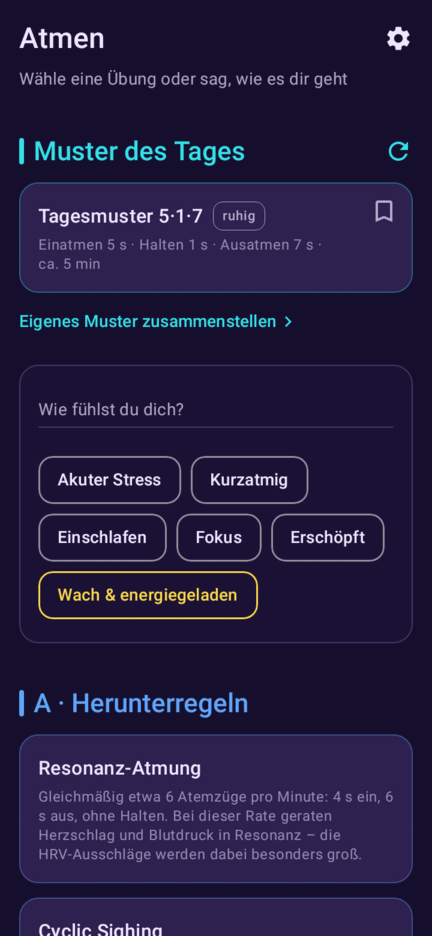
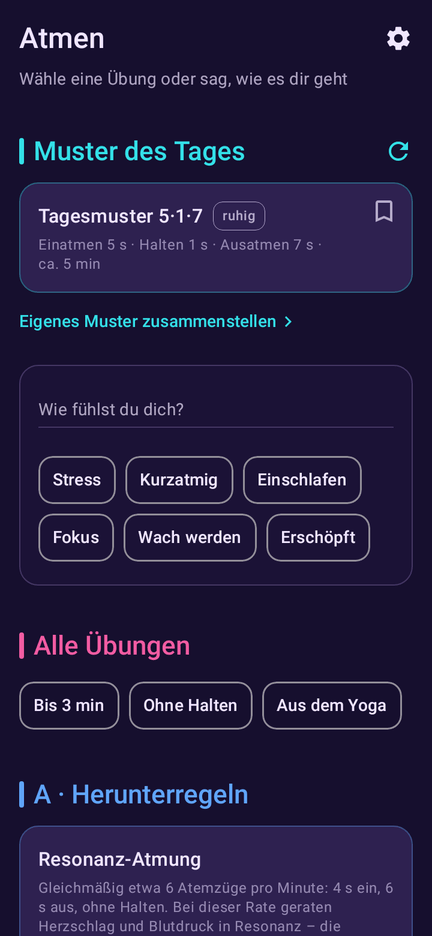
docs: Store-Texte mit Nutzen vorn, englische Kurzfassung, README mit Bezugsquellen
- de-DE: Titel „Atemkraft – Atemübungen“, Kurzbeschreibung mit Nutzen,
  Langtext gegliedert (Nutzen, Was Atemkraft anders macht, Was drin ist,
  Datenschutz, Lizenzen); Zahlen wie in den Daten (17 angeleitete Übungen
  in vier Bereichen, drei Programme, sechs Anlässe); Disclaimer wörtlich.
- en-US: Titel, Kurz- und Langtext; sagt zuerst, dass die App nur Deutsch ist.
- README: Bezugsquellen (Play und F-Droid folgen, GitHub, Obtainium), gleiche
  Signatur auf allen Wegen, „Bereiche“ statt „Gruppen“, 17 statt 20;
  README-Bilder nach Release-Checkliste Schritt 2 neu erzeugt.
- STORE.md: Stand der Texte und Grafiken, Befehl für die Store-Bilder.

Claude-Session: https://claude.ai/code/session_01H2VGhxbJTSRd9dYHL6wNME

Changed region(s): [[0.0301, 0.4647, 0.963, 1.0], [0.9329, 0.6197, 0.963, 0.6816]]

diff --git a/README.md b/README.md
@@ -1,33 +1,42 @@
 # Atemkraft
 
-Android-App für Atemübungen und stille Meditation. Ein mitatmender Kreis, Töne und Vibration führen dich durch 20 Atemtechniken; zu jeder steht, was die Studienlage hergibt, mit Quellen und Sicherheitshinweisen.
+Android-App für Atemübungen und stille Meditation. Ein mitatmender Kreis, Töne und Vibration führen dich durch 17 Atemübungen; dazu kommen drei Programme zum Nachlesen. Zu jeder Übung steht, was die Studienlage hergibt, mit Quellen und Sicherheitshinweisen.
 
-Ohne Konto, ohne Werbung, ohne Tracking; offline bis auf den optionalen Download einer Sprachstimme. Atemkraft ist eine Wellness-App und kein Medizinprodukt; sie ersetzt keinen Rat von Ärztin, Arzt oder anderem Fachpersonal.
+Ohne Konto, ohne Werbung, ohne Tracking; offline bis auf das optionale Laden einer Sprachstimme. Atemkraft ist eine Wellness-App und kein Medizinprodukt; sie ersetzt keinen Rat von Ärztin, Arzt oder anderem Fachpersonal.
 
 <p>
-  <img src="docs/screenshot-atmen.png" width="200" alt="Tab Atmen: Muster des Tages, Suche „Wie fühlst du dich?“ mit Anlässen als Chips und Liste der Atemübungen">
+  <img src="docs/screenshot-atmen.png" width="200" alt="Tab Atmen: Muster des Tages, Suche „Wie fühlst du dich?“ mit Anlässen als Chips, Filter und Liste der Atemübungen">
   <img src="docs/screenshot-sitzung.png" width="200" alt="Laufende Sitzung: Atemkreis mit „Einatmen“, Sekunden und Fortschrittsbogen">
 </p>
 
 ## Funktionen
 
-Beschrieben ist der Stand von `main`; die neueste APK unter Releases kann Einzelnes davon noch nicht haben.
+Beschrieben ist der Stand von `main`; die veröffentlichte Version kann Einzelnes davon noch nicht haben.
 
-- **Atmen:** 17 Übungen in vier Gruppen, je mit Anleitung, Studienlage, Sicherheitshinweisen und Quellen. Zeiten lassen sich pro Übung anpassen. Darüber „Wie fühlst du dich?“: Anlässe wie „Einschlafen“ zum Antippen und eine Suche nach deinem Befinden.
+- **Atmen:** 17 Übungen in vier Bereichen, je mit Anleitung, Studienlage, Sicherheitshinweisen und Quellen. Zeiten lassen sich pro Übung anpassen. Darüber „Wie fühlst du dich?“: Anlässe wie „Einschlafen“ zum Antippen und eine Suche nach deinem Befinden.
 - **Sitzung:** Der Kreis wächst beim Einatmen und schrumpft beim Ausatmen, dazu Töne und Vibration. Am Ende eine kurze Bilanz.
 - **Muster des Tages:** jeden Tag ein neues, ruhiges oder sanft aktivierendes Muster zum Ausprobieren und Speichern.
-- **Eigene Kreationen:** einen Atemzug frei aus Einatmen, Halten und Ausatmen zusammenstellen, mit Atemkurve, Vorlagen und Vorschau, gesammelt im Tab „Eigene“, zusammen mit den Übungen, die du mit „Tut mir gut“ markiert hast, und dem Verlauf deiner Sitzungen.
+- **Eigene Kreationen:** einen Atemzug frei aus Einatmen, Halten und Ausatmen zusammenstellen, mit Atemkurve, Startpunkten und Vorschau, gesammelt im Tab „Eigene“, zusammen mit den Übungen, die du mit „Tut mir gut“ markiert hast, und dem Verlauf deiner Sitzungen.
 - **Meditation:** Timer mit Zeitring, Gong und optional gesprochener Anleitung; läuft bei ausgeschaltetem Bildschirm weiter. Auf Wunsch geht eine Atemübung nahtlos in die stille Meditation über.
 - **Lernen:** Atemlehre (etwa die fünf vāyus), Pranayama mit Grundlagen und Techniken wie Ujjayi, jeweils mit Übung zum Ausprobieren, Begriffe erklärt und Programme wie Buteyko und Nasenatmung zum Nachlesen.
 - **Logbuch und Export:** abgeschlossene Sitzungen, gespeicherte Muster als Datei sichern.
 
 ## Installieren
 
-Atemkraft gibt es als APK auf GitHub, nicht im Play Store (Android 8.0 oder neuer).
+Atemkraft läuft ab Android 8.0. Bezugsquellen:
+
+- **Google Play** und **F-Droid:** folgen; die Links stehen hier, sobald die App dort erscheint.
+- **GitHub:** als APK unter [Releases](https://github.com/grenzenloseSchublade/atemkraft/releases/latest).
+
+Alle Wege liefern dieselbe App mit derselben Signatur. Du kannst deshalb die Quelle wechseln, ohne die App zu deinstallieren: Das Update aus der neuen Quelle installiert sich über die vorhandene App, Logbuch, Muster und Einstellungen bleiben. Das ist wichtig, weil es bewusst kein Cloud-Backup gibt; eine Deinstallation löscht diese Daten, außer du hast deine Muster vorher exportiert.
+
+Ohne Store:
 
 1. Auf dem Handy [Neueste Version](https://github.com/grenzenloseSchublade/atemkraft/releases/latest) öffnen und unter „Assets“ `atemkraft-vX.Y.Z.apk` laden.
 2. Die Datei öffnen und dem Browser einmal erlauben, Apps zu installieren.
 3. „Installieren“ tippen. Updates genauso darüber installieren; Logbuch, Muster und Einstellungen bleiben.
+
+Wer die GitHub-APKs automatisch aktuell halten will, trägt die Repo-Adresse in [Obtainium](https://obtainium.imranr.dev/) ein.
 
 Echte APKs tragen dieses Zertifikat (SHA-256), prüfbar mit [AppVerifier](https://github.com/soupslurpr/AppVerifier) oder `apksigner verify --print-certs`:
 

diff --git a/docs/STORE.md b/docs/STORE.md
@@ -33,21 +33,27 @@ Alles, was beide Stores aus dem Repo lesen, liegt unter `fastlane/metadata/andro
 
 | Datei | Grenze | Stand |
 |---|---|---|
-| `de-DE/title.txt` | 30 Zeichen (Play) | vorhanden |
-| `de-DE/short_description.txt` | 80 Zeichen | vorhanden (71); sollte Nutzen statt Funktionsliste sagen |
-| `de-DE/full_description.txt` | 4000 Zeichen | vorhanden (3988, fast voll); enthält den Disclaimer aus SEC-LEGAL-02 wörtlich |
+| `de-DE/title.txt` | 30 Zeichen (Play) | „Atemkraft – Atemübungen“ (23) |
+| `de-DE/short_description.txt` | 80 Zeichen | Nutzen statt Funktionsliste (75) |
+| `de-DE/full_description.txt` | 4000 Zeichen | Nutzen, „Was Atemkraft anders macht“, „Was drin ist“, Datenschutz, Lizenzen (3228); enthält den Disclaimer aus SEC-LEGAL-02 wörtlich. Zahlen wie in den Daten: 17 angeleitete Übungen in vier Bereichen, drei Programme, sechs Anlässe |
 | `de-DE/changelogs/<versionCode>.txt` | 500 Zeichen | je Release |
-| `en-US/title.txt`, `short_description.txt`, `full_description.txt` | wie oben | **fehlt**; F-Droid fällt für alle anderen Sprachen auf en-US zurück. Kurz halten und sagen, dass die App nur Deutsch spricht |
+| `en-US/title.txt`, `short_description.txt`, `full_description.txt` | wie oben | kurz, erster Satz: App nur auf Deutsch. F-Droid fällt für alle anderen Sprachen auf en-US zurück |
 
-### Grafiken (fehlen alle)
+### Grafiken
 
-| Datei | Format |
-|---|---|
-| `de-DE/images/icon.png` | 512 × 512 px, 32-Bit-PNG mit Alpha, höchstens 1 MB. Aus dem adaptiven Launcher-Icon rendern |
-| `de-DE/images/featureGraphic.png` | 1024 × 500 px, JPEG oder 24-Bit-PNG **ohne** Alpha. Play-Pflicht, F-Droid zeigt es als Kopfbild |
-| `de-DE/images/phoneScreenshots/1.png` … | Play: mindestens 2, höchstens 8; Seiten 320–3840 px, Seitenverhältnis höchstens 2:1, ohne Alpha. Für Empfehlungen in Play mindestens 4 im Hochformat ab 1080 × 1920 px |
+| Datei | Format | Stand |
+|---|---|---|
+| `de-DE/images/icon.png` | 512 × 512 px, 32-Bit-PNG mit Alpha, höchstens 1 MB | aus dem adaptiven Launcher-Icon gerendert (sichtbare 72 dp der 108-dp-Ebenen); Ecken rundet Play |
+| `de-DE/images/featureGraphic.png` | 1024 × 500 px, JPEG oder 24-Bit-PNG **ohne** Alpha. Play-Pflicht, F-Droid zeigt es als Kopfbild | Atemringe des Icons, App-Name, „Atemübungen und Meditation“ |
+| `de-DE/images/phoneScreenshots/1.png` … `6.png` | Play: mindestens 2, höchstens 8; Seiten 320–3840 px, Seitenverhältnis höchstens 2:1, ohne Alpha. Für Empfehlungen in Play mindestens 4 im Hochformat ab 1080 × 1920 px | 1080 × 1920 px (384 dp bei 450 dpi wie das A54, Höhe 9:16): Sitzung, Atmen mit Anlass „Einschlafen“, Detail Resonanz-Atmung, Meditation, Muster-Editor, Lernen |
 
-Die Roborazzi-Bilder (720 × 1560 px) sind dafür zu klein und zu schmal. Besser echte Screenshots vom Gerät oder Roborazzi in höherer Auflösung mit Seitenverhältnis 9:16 rendern. `en-US/images/` kann auf dieselben Dateien verweisen (Kopie).
+Alle Bilder erzeugt `StoreScreenshotTest` (Robolectric, dieselben Gates wie der Screenshot-Test) und schreibt sie nach `de-DE/images/` und `en-US/images/` (gleiche Dateien):
+
+```bash
+scripts/build.sh testDebugUnitTest --tests '*StoreScreenshotTest' -PstoreScreenshots
+```
+
+Ohne `-PstoreScreenshots` schließt Gradle den Test aus; `scripts/check.sh` schreibt also keine Store-Bilder. Neu erzeugen bei sichtbaren Änderungen an den gezeigten Screens, zusammen mit den README-Bildern (Release-Checkliste Schritt 2).
 
 ### Build
 
@@ -59,7 +65,7 @@ Die Roborazzi-Bilder (720 × 1560 px) sind dafür zu klein und zu schmal. Besser
 ### Dokumente
 
 - **Datenschutzerklärung** (`docs/PRIVACY.md`): Play verlangt eine öffentliche, nicht geofence-geschützte URL (kein PDF), die auch in der App verlinkt ist. Die GitHub-Ansicht genügt; besser ein stabiler Link (GitHub Pages oder Tag statt `main`). Ergänzen: Verteilung über Play und F-Droid, Hinweis, dass Google bzw. F-Droid als Store-Betreiber eigene Daten verarbeiten, Kontakt-E-Mail, Anbietername wie im Store. Historische Hinweise auf Versionen bis 1.5.1 in einen Anhang.
-- **README**, Abschnitt *Installieren*: „nicht im Play Store“ ersetzen durch die Bezugsquellen und den Hinweis, dass alle dieselbe Signatur tragen.
+- **README**, Abschnitt *Installieren*: Bezugsquellen (Play und F-Droid „folgen“, GitHub-Releases, Obtainium) und Hinweis auf dieselbe Signatur stehen; die Store-Links nachtragen, sobald die App dort erscheint.
 - **SECURITY.md**: SEC-DIST-01 präzisieren (F-Droid braucht einen Build aus Quellen, `Binaries:` allein reicht nicht); fehlende Prüfskripte (`verify-apk.sh`, Allowlists) anlegen oder die Verweise streichen.
 
 ## Google Play
